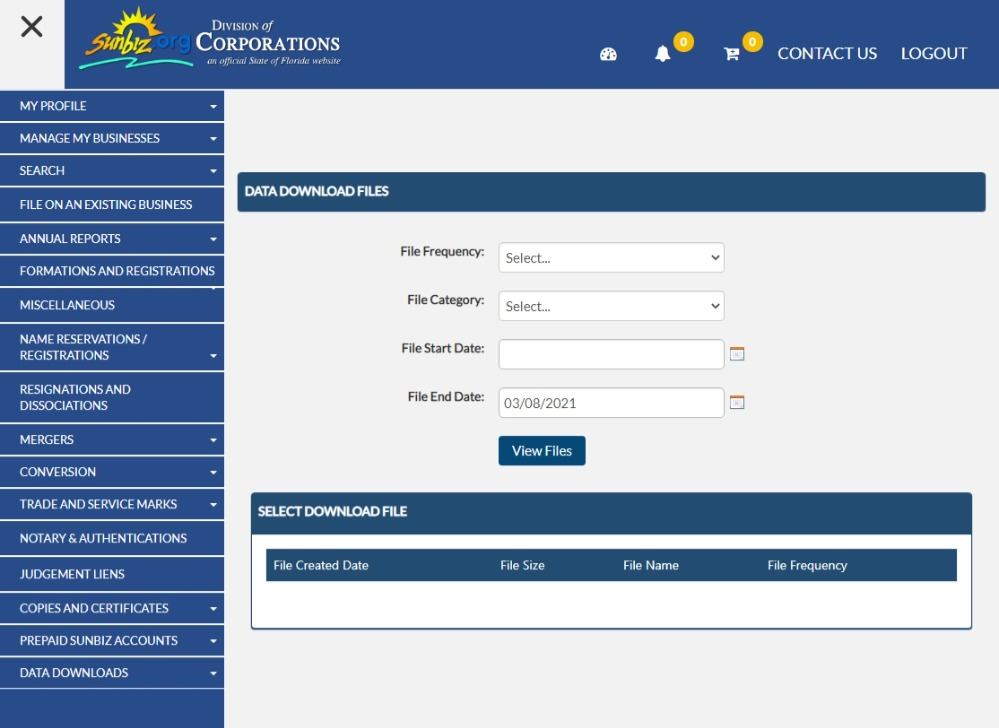
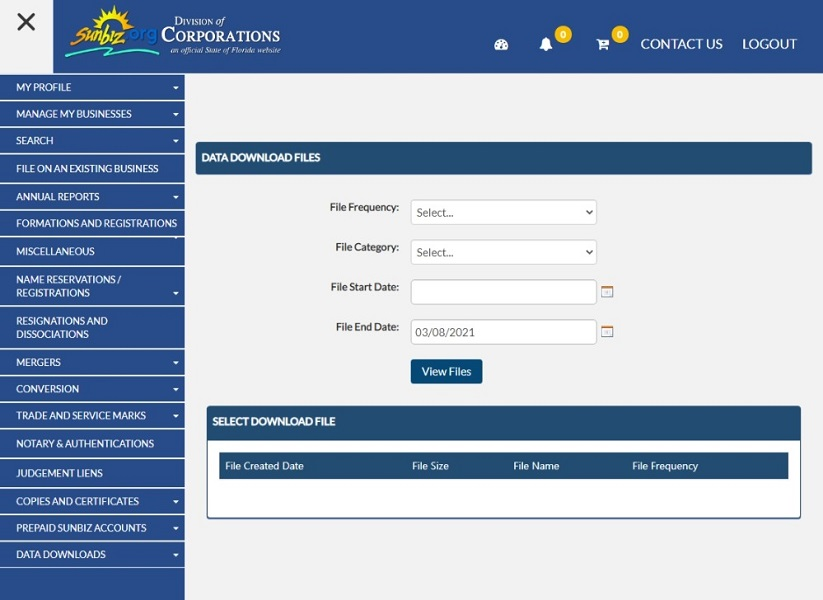
updated images

diff --git a/index.html b/index.html
@@ -370,7 +370,7 @@ mda: slideshow v2 -->
   
   <div class="mySlides">
     <div class="numbertext-block">4 / 4</div>
-    <img src="./sbx_files/sunbiz-data-downloads-002.jpeg" style="width:100%">
+    <img src="./sbx_files/sunbiz-data-downloads-002.jpg" style="width:100%">
     <div class="text-block">New Sunbiz Data Downloads Page with Search Results</div>
   </div>
 
